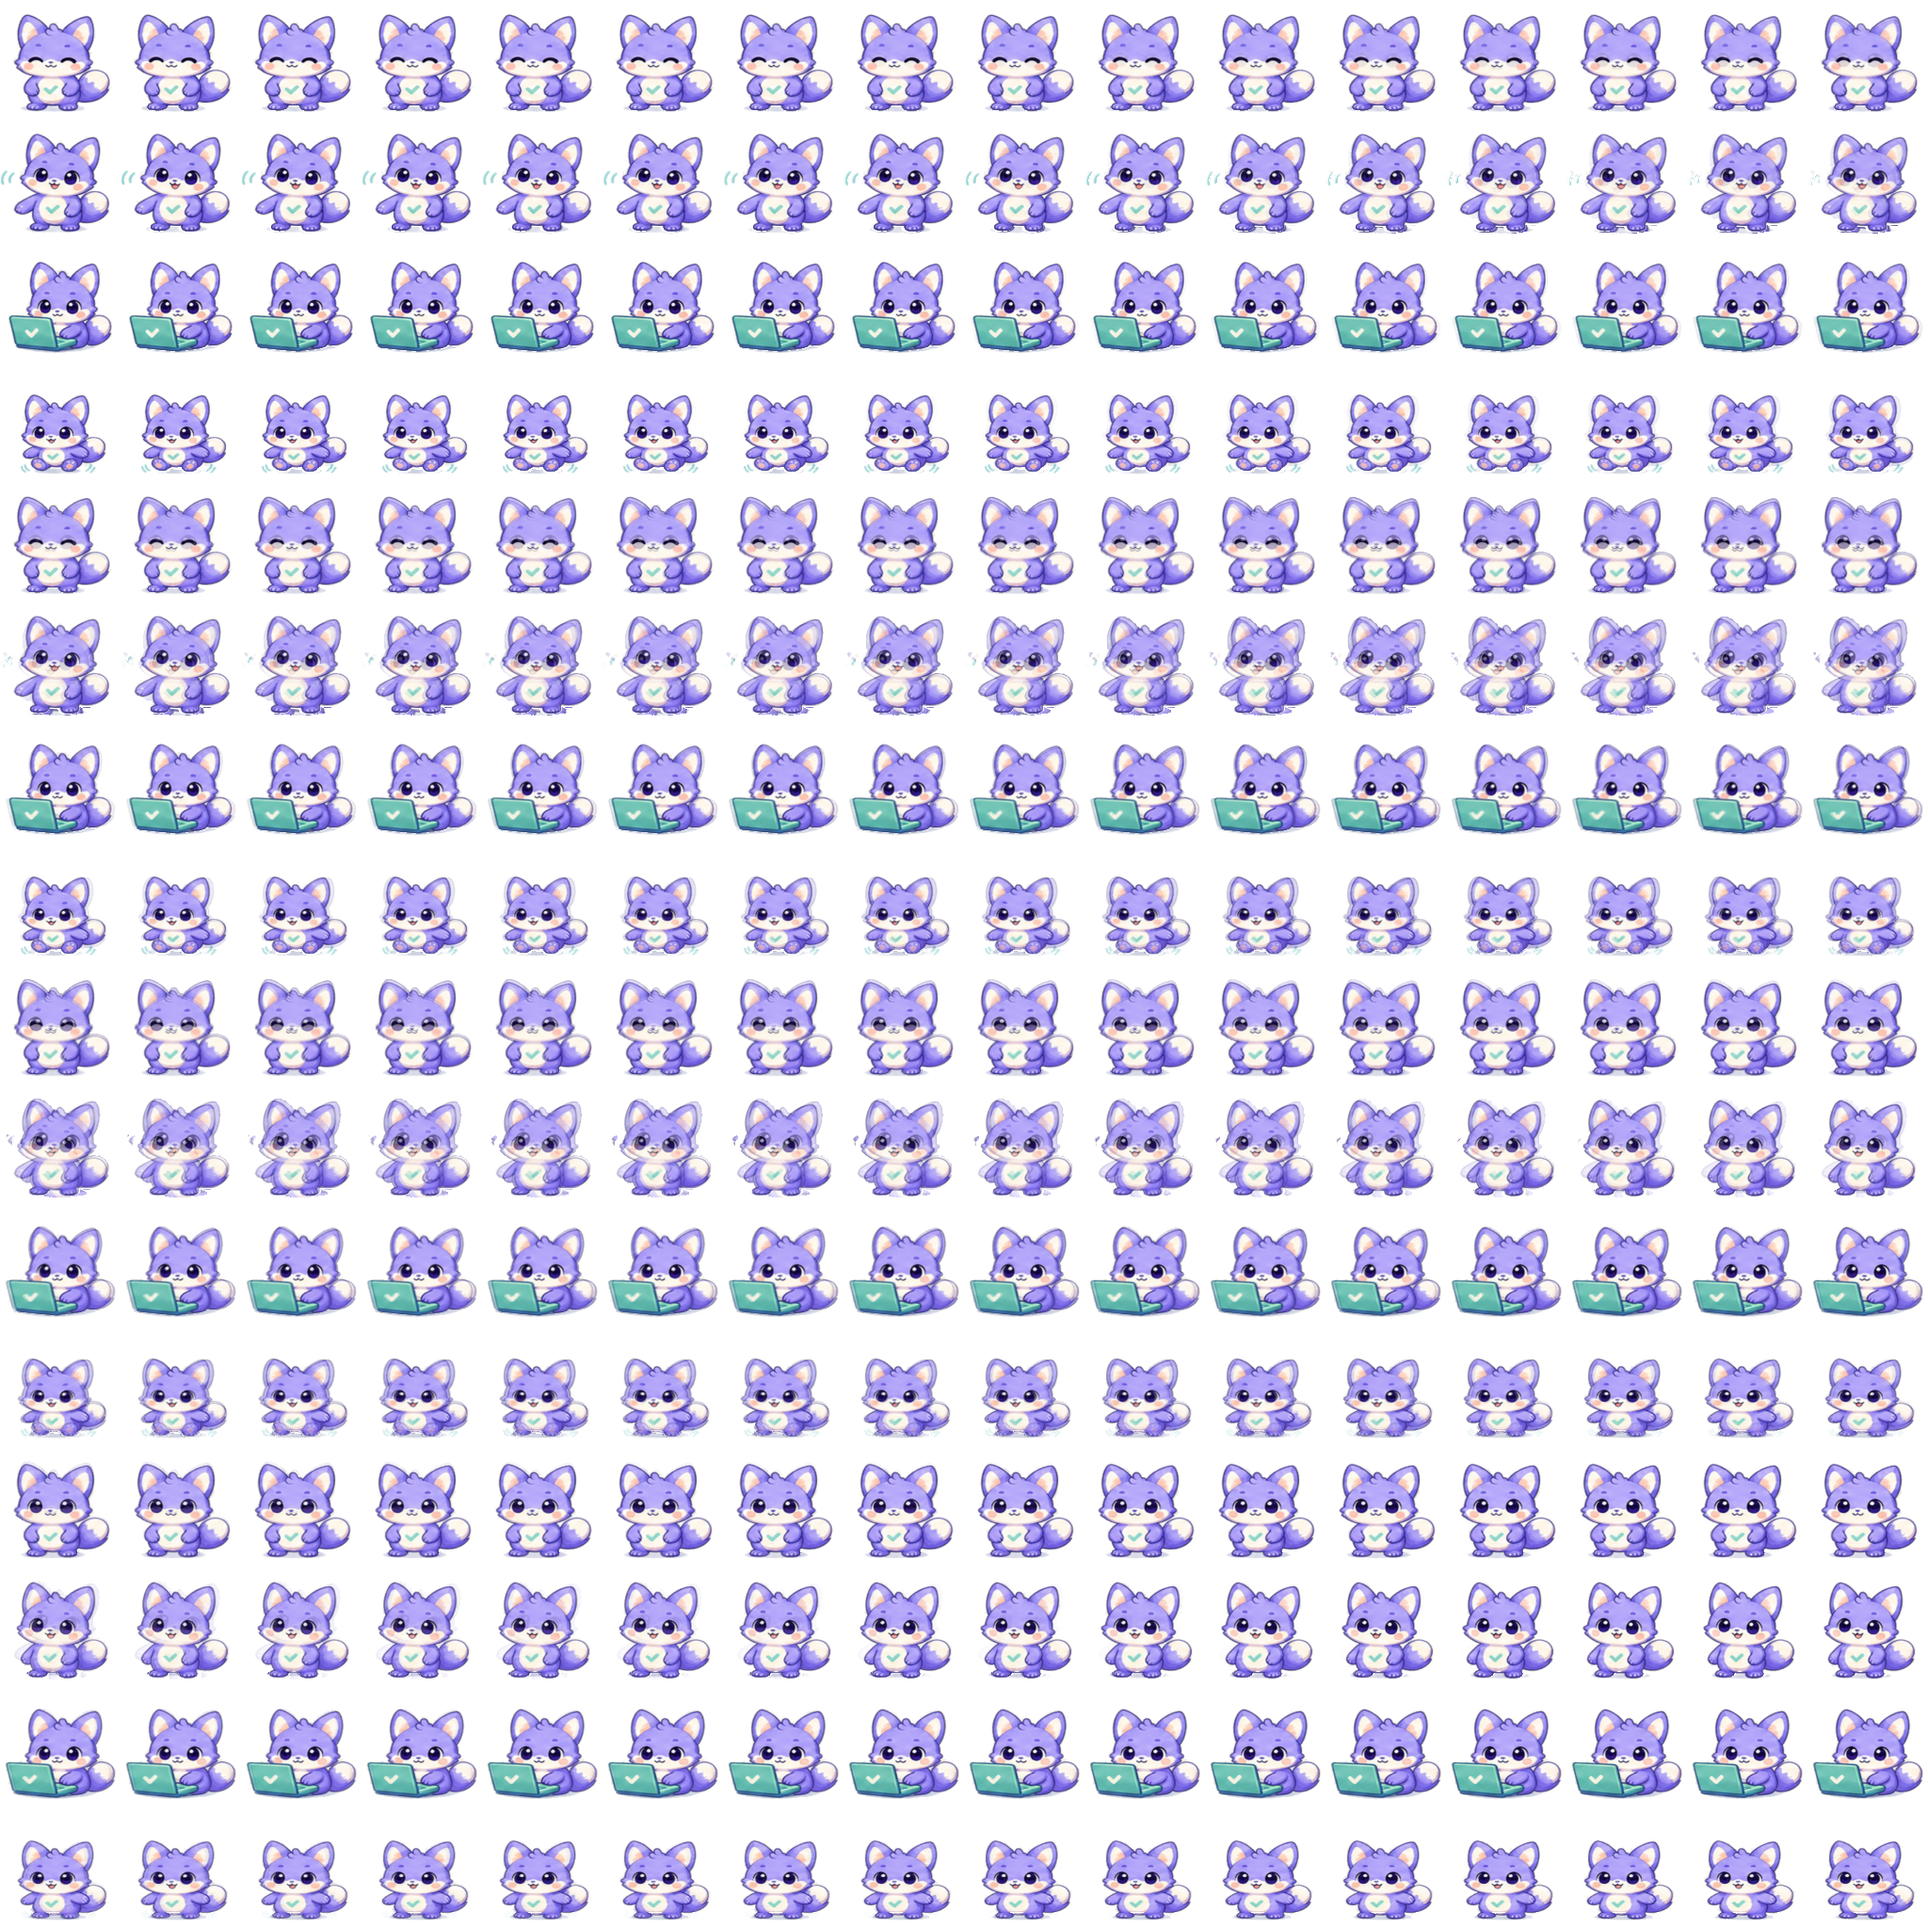
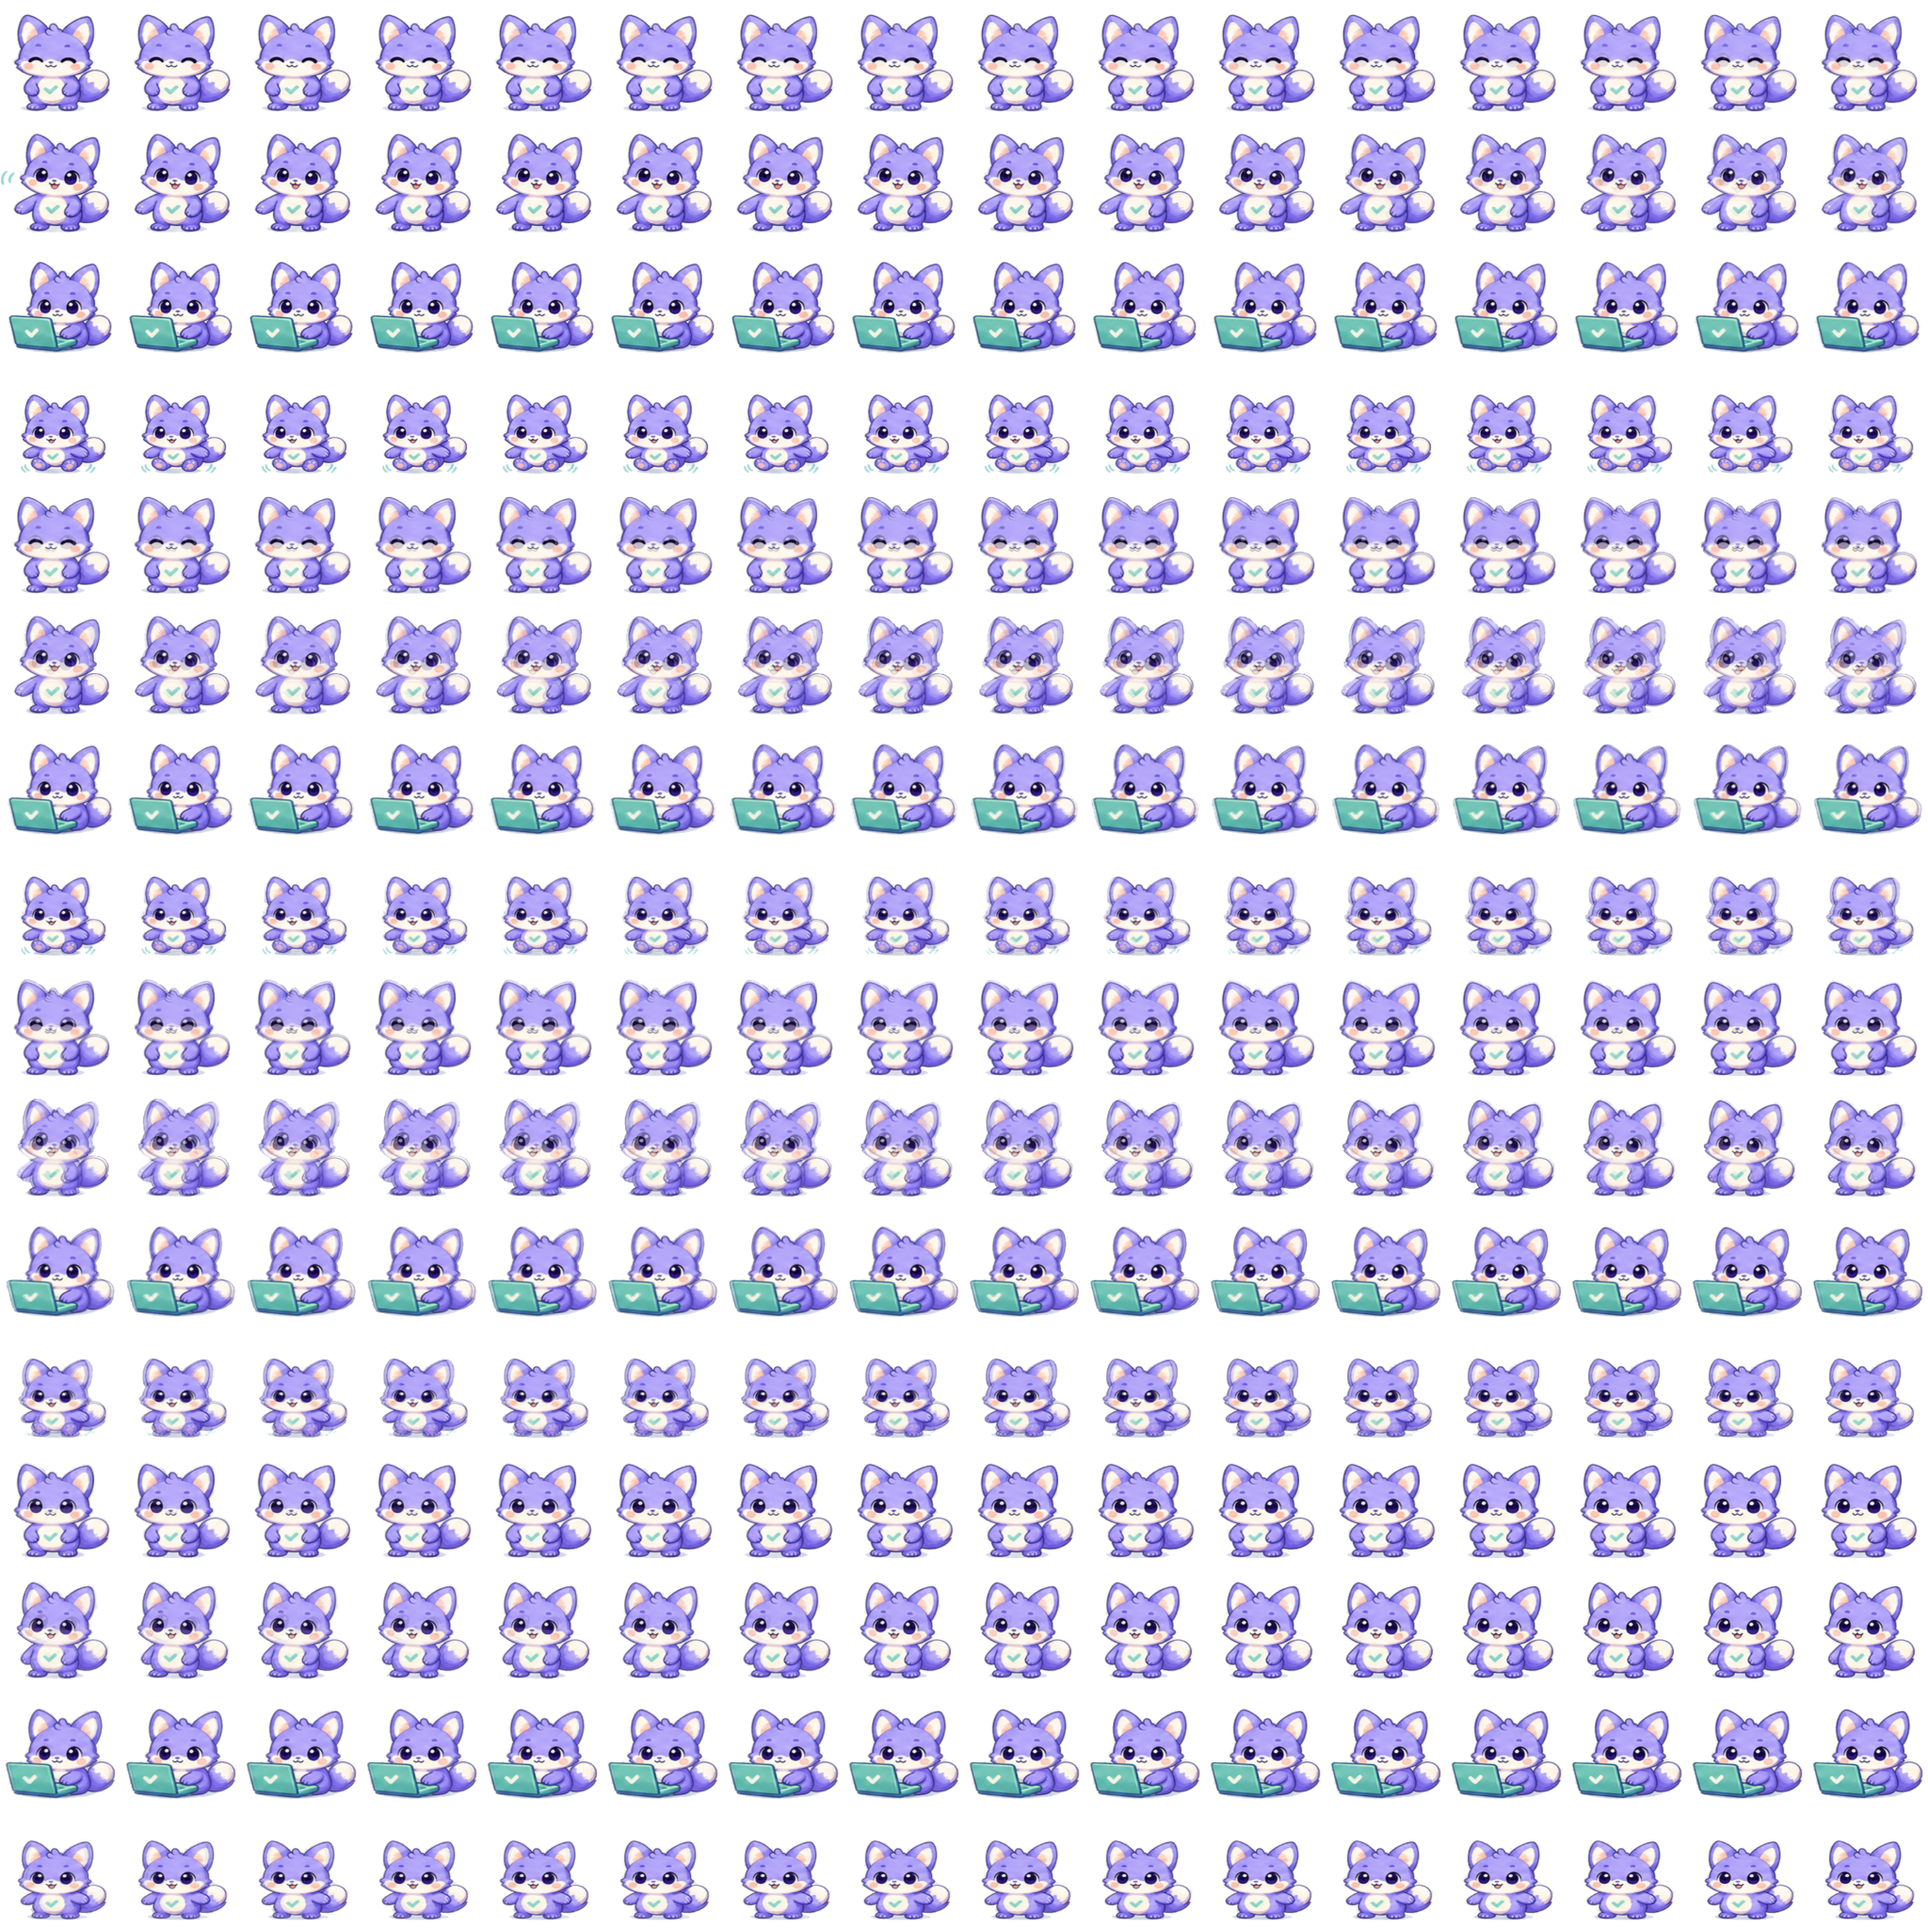
fix: increase Todo Pet frame pacing and remove atlas seams

diff --git a/src/renderer/pet-atlas.ts b/src/renderer/pet-atlas.ts
@@ -33,7 +33,11 @@ import interactionAtlasPage12 from "../assets/todo-pet-interaction-atlas-v21-12.
  * 16,384px texture limit and could make the compositor tear while sampling a
  * new cell. Every v23/v21 page is 2,048×2,048px (the final page is padded
  * transparent), so no hidden driver tiling is needed. Cells are authored at
- * 128px and retain the v23/v21 body/prop interpolation pass.
+ * 128px and retain the authored high-density frames from the v23/v21 source
+ * strips. Runtime pages are deliberately a lossless split of those strips:
+ * the offline interpolator remains available for experiments, but generated
+ * contour blends are not shipped when they introduce a coloured edge or
+ * double silhouette around a key pose.
  */
 export const TODO_PET_ATLAS_URL = atlasUrl;
 export const TODO_PET_MOTION_ATLAS_URLS = [
@@ -333,14 +337,13 @@ const sequence = (
   name,
 });
 
-// The source sheets contain complete poses rather than separated limbs. Sixty-
-// three offline contour in-betweens per authored source cell turn even the
-// larger hop/rope displacement into small, coherent steps. Fast loops use a
-// 16ms target: a 60Hz display advances at most one generated cell per refresh
-// while the renderer chooses the nearest complete cell (never a transparent
-// blend of two moving silhouettes). This keeps the motion dense without the
-// ghosting that made the previous 18ms fractional blend look torn.
-const fastFrameMs = 16;
+// The source strips contain complete, authored frames rather than separated
+// limbs. Fast loops use an 8ms target so a 120Hz panel can present one clean
+// cell on every refresh (60Hz still caps at one cell per refresh); the
+// renderer always chooses a complete cell and never blends two moving pets.
+// This is intentionally faster than the old 16ms cadence, which made a
+// high-refresh display repeat every other frame and read as low-FPS motion.
+const fastFrameMs = 8;
 const idleLoop = motion("idle-breathe-blink", 0, fastFrameMs);
 const waveLoop = motion("wave", 1, fastFrameMs);
 const workLoop = motion("focus-work", 2, fastFrameMs);

diff --git a/src/renderer/PetCharacter.tsx b/src/renderer/PetCharacter.tsx
@@ -316,10 +316,10 @@ function PetAtlasCanvas({ sources, animation, onStep, onReady }: PetAtlasCanvasP
     };
     const authoredFrameDuration = Math.max(1, animation.frameDurationMs);
     // Keep a fractional playhead instead of tying motion to integer wall-clock
-    // ticks. At 60Hz the 16ms target advances about one generated cell; the
-    // presentation step below rounds that playhead to one complete cell, so
-    // every compositor refresh is atomic and no authored in-between is
-    // replaced by a translucent double exposure.
+    // ticks. At 60Hz the 8ms target is capped to one complete cell per
+    // refresh, while a 120Hz panel can advance one cell on every refresh.
+    // The presentation step below always chooses a complete cell, so no
+    // authored frame is replaced by a translucent double exposure.
     let sequencePosition = 0;
     let sequenceStarted = false;
     // The first two refresh callbacks can straddle image decode and a window
@@ -463,9 +463,10 @@ function PetAtlasCanvas({ sources, animation, onStep, onReady }: PetAtlasCanvasP
       const currentImage = imageForFrame(current);
       const nextImage = imageForFrame(next);
       const currentPage = pageForFrame(current);
-      // Decode one extra page ahead of the look-ahead frame. At the 16ms
-      // cadence this gives a 0.9–2.2s warm window before a page boundary,
-      // even if the user is on a high-refresh display.
+      // Decode one extra page ahead of the look-ahead frame. At the 8ms
+      // cadence this gives a 0.45–1.1s warm window before a page boundary;
+      // two pages are requested so a high-refresh display never waits on a
+      // texture decode during an active gesture.
       requestPage(currentPage + 1);
       requestPage(currentPage + 2);
       // A page boundary should never expose a blank or partially decoded

diff --git a/tests/pet-atlas.test.ts b/tests/pet-atlas.test.ts
@@ -97,10 +97,10 @@ describe("Todo Pet generated action atlas", () => {
       expect(animation.columns).toBe(TODO_PET_ATLAS_PAGE_COLUMNS);
       expect(animation.rows).toBe(TODO_PET_ATLAS_PAGE_ROWS);
       expect(animation.loop).toBe(true);
-      // Keep the fast timeline at or above one display beat on a 60Hz panel.
-      // A shorter target makes the rAF playhead skip generated in-betweens and
-      // is perceptible as a low-frame-rate tear even with a dense atlas.
-      expect(animation.frameDurationMs).toBeGreaterThanOrEqual(16);
+      // Fast loops target 8ms so 120Hz panels can present a fresh authored
+      // cell on every refresh. The renderer still caps advancement at one
+      // cell per paint, so 60Hz displays never skip across the atlas.
+      expect(animation.frameDurationMs).toBeGreaterThanOrEqual(8);
     }
   });
 

diff --git a/docs/IMPLEMENTATION_STATUS.md b/docs/IMPLEMENTATION_STATUS.md
@@ -21,6 +21,8 @@
 
 > v2.85 完整帧交接与高密度动作回归（2026-08-31）：运行时正式使用 v23/v21 的 2048×2048 分页图集，主动作 577 格、互动动作 769 格，每两个关键姿势之间保留 63 个离线轮廓插帧。Canvas 播放头仍按显示器节拍推进，但只在隐藏缓冲绘制一张就近的完整 cell，再以双缓冲原子切换；跨动作切换不再把旧宠物和新宠物做透明叠加，而是保留上一张完整帧直到新帧解码完成，消除 handoff 重影。地面阴影、绳子、星光和任务卡按独立预乘层连续交接，关键帧保留原始像素；分页边界在资源未就绪时冻结播放头，绝不显示半透明空帧。后续需在本机安装版继续观察高刷新率、外接显示器与失焦场景。
 
[1 lines of base64/hex data omitted]
+
 > v2.05 回归基线：未启动会弹窗的 Electron E2E；Todo Pet 小窝可选择六种本地陪伴性格，并可邀请最多 3 个只存在于小窝的房间伙伴，伙伴可点击互动并给出本地短句；有伙伴和开放任务时，小窝可用固定角色组成临时小队，准备后直接开始原任务专注或打开原任务；非仅宠物的紧凑桌面形态在天气开启且已有缓存时显示可点击天气胶囊，展示温度、状况、降水、缓存/严重提示并可打开既有天气卡片，隐私模式隐藏城市且不读取定位；时间线今天的日视图增加本地“现在”指示线和回到现在入口；设置新增可视化动作包编辑器，可从内置动作组合并安装启用安全声明式动作包；小窝新增共同收藏图鉴、共同旅程章节和共同完成印章，分别投影真实奖励库存、项目任务进度与真实完成任务事实；房间云灯、小植物和任务书架支持直接拖动、安全的位置微调、大小调整和恢复默认，旧宠物档案自动使用默认布局；小窝新增明亮日光、柔和灯光和月光夜色三档纯本地视觉氛围，并在开启季节小事件时投影四季内置装饰层；颜色主题包编辑器支持最多 12 个本机主题和四个 hex 颜色，并可加入 512 KB 以内 PNG/JPEG/WebP 背景、导出可读 JSON、导入预览后安装，严格拒绝脚本、路径、URL、SVG 和任意 CSS；Agent 可选跟随 Todo Pet 当前陪伴性格，或保持独立人格，旧设置默认开启联动；Vitest 单元/集成测试 129 个文件、804/804 通过，类型检查、生产构建和差异检查通过。此前已包含日历事件卡会后跟进任务预填与确认入口、时间线周视图估时复盘、主/备用模型价格档案、按提供方回报 token 的本地费用累计、每日费用硬上限、缺少可计费用量时的 fail-closed 覆盖、本机最多 8 个短期 Agent 会话归档/切换/搜索/重命名/置顶/删除，以及主 Agent 上下文快捷回答建议。
 
 > v2.06 增量：菜单栏 / 系统托盘新增只读“今日待办”预览，读取同一份 Today 任务快照并显示最多 3 项未完成任务与总数；点击回到既有 Today 视图，隐私模式将标题脱敏，任务读取失败只降级菜单。新增托盘投影测试后，单元/集成测试基线为 130 个文件、808/808 通过；未启动会弹窗的 Electron E2E。
